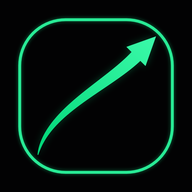
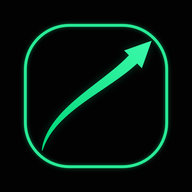
Ícono Android: contorno más adentro (v6); manifest con versión para evitar caché
Claude-Session: https://claude.ai/code/session_01DAPYnnwmMWmTBfGPoKJFE8

diff --git a/index.html b/index.html
@@ -8,7 +8,7 @@
 <meta name="apple-mobile-web-app-status-bar-style" content="black-translucent">
 <meta name="apple-mobile-web-app-title" content="TradingJnl">
 <meta name="mobile-web-app-capable" content="yes">
-<link rel="manifest" href="manifest.json">
+<link rel="manifest" href="manifest.json?v=6">
 <link rel="apple-touch-icon" href="icon-192.png">
 <title>Trading Journal</title>
 <link href="https://fonts.googleapis.com/css2?family=Inter:wght@400;500;600;700;800&family=Plus+Jakarta+Sans:wght@400;600;700;800&display=swap" rel="stylesheet">
